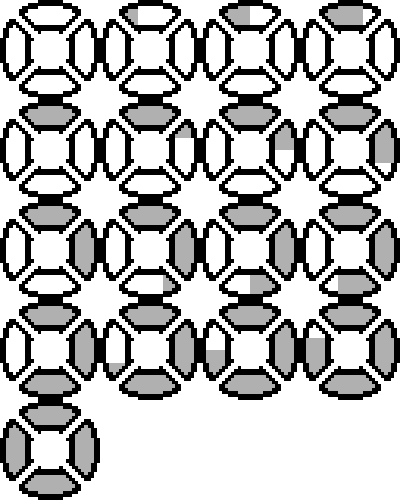
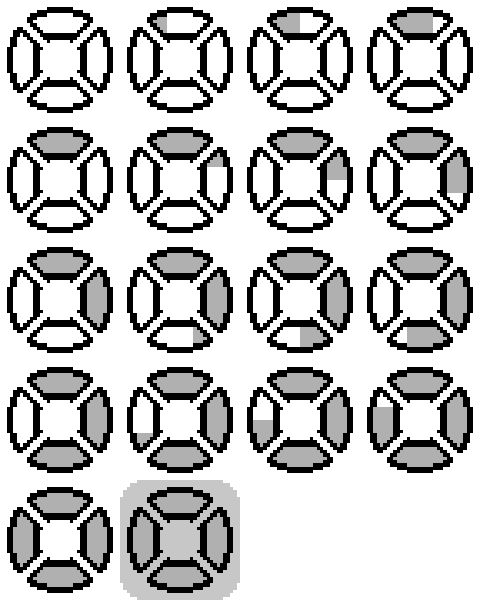
Updated Teleport Timer
Used the new spritesheet and coded it so the icon is highlighted when teleMode is activiated.

diff --git a/Silver Knight/knight.js b/Silver Knight/knight.js
@@ -4,7 +4,7 @@ function preloadKnight(){
     game.load.spritesheet('knight', 'assets/knight/Silver Knight Spritesheet.png', 354, 230);
     game.load.image('heart', 'assets/knight/heart 100.png');
     game.load.image('half_heart', 'assets/knight/half heart 100.png');
-    game.load.spritesheet('timer', 'assets/knight/Timer Spritesheet.png', 100, 100);
+    game.load.spritesheet('timer', 'assets/knight/Teleport Timer.png', 120, 120);
     game.load.spritesheet('blinkTimer', 'assets/Blink Timer spritesheet', 100, 100);
     game.load.spritesheet('blinkDisplay', 'assets/knight/Teleportation Spritesheet.png', 150, 150);
     
@@ -350,11 +350,11 @@ function teleTimers(){
         
         if(teleMode){
             timerSprite.alpha = 1;
-            timerSprite.frame = 4;
+            timerSprite.frame = 17;
         }
         else{
             timerSprite.alpha = 0.5;
-            timerSprite.frame = 4;
+            timerSprite.frame = 16;
         }
 
     } else if (!canTele && teleTimer < 200) {
